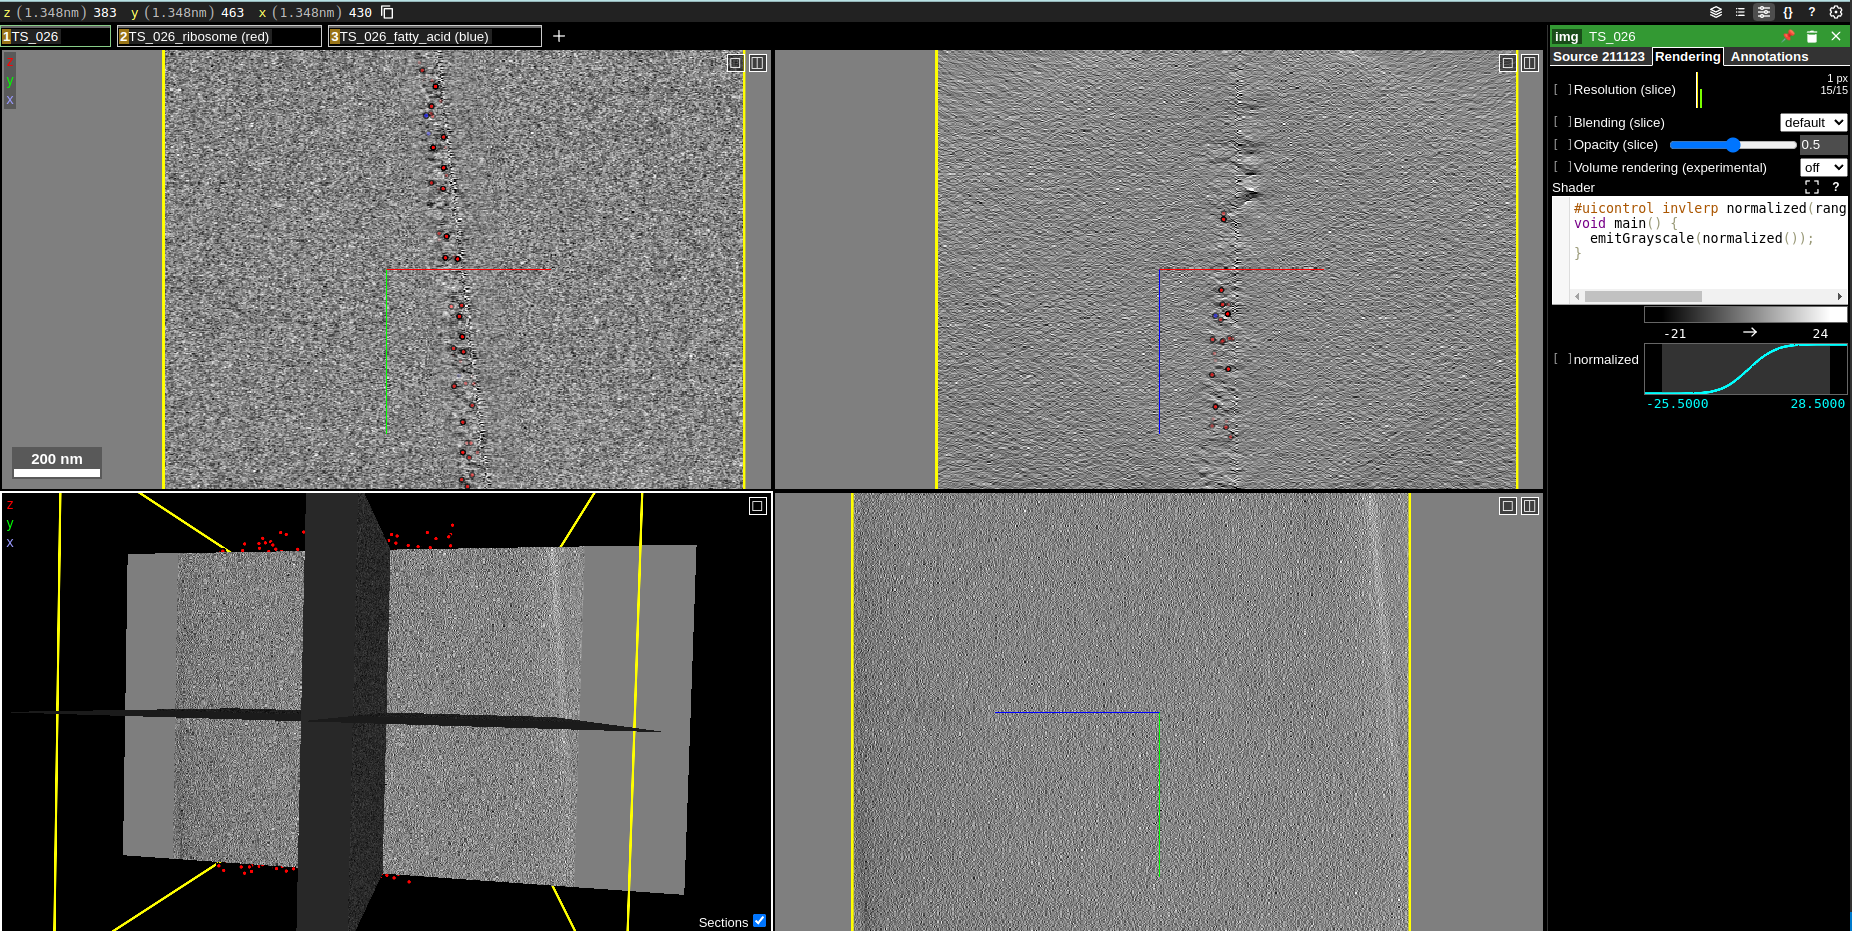
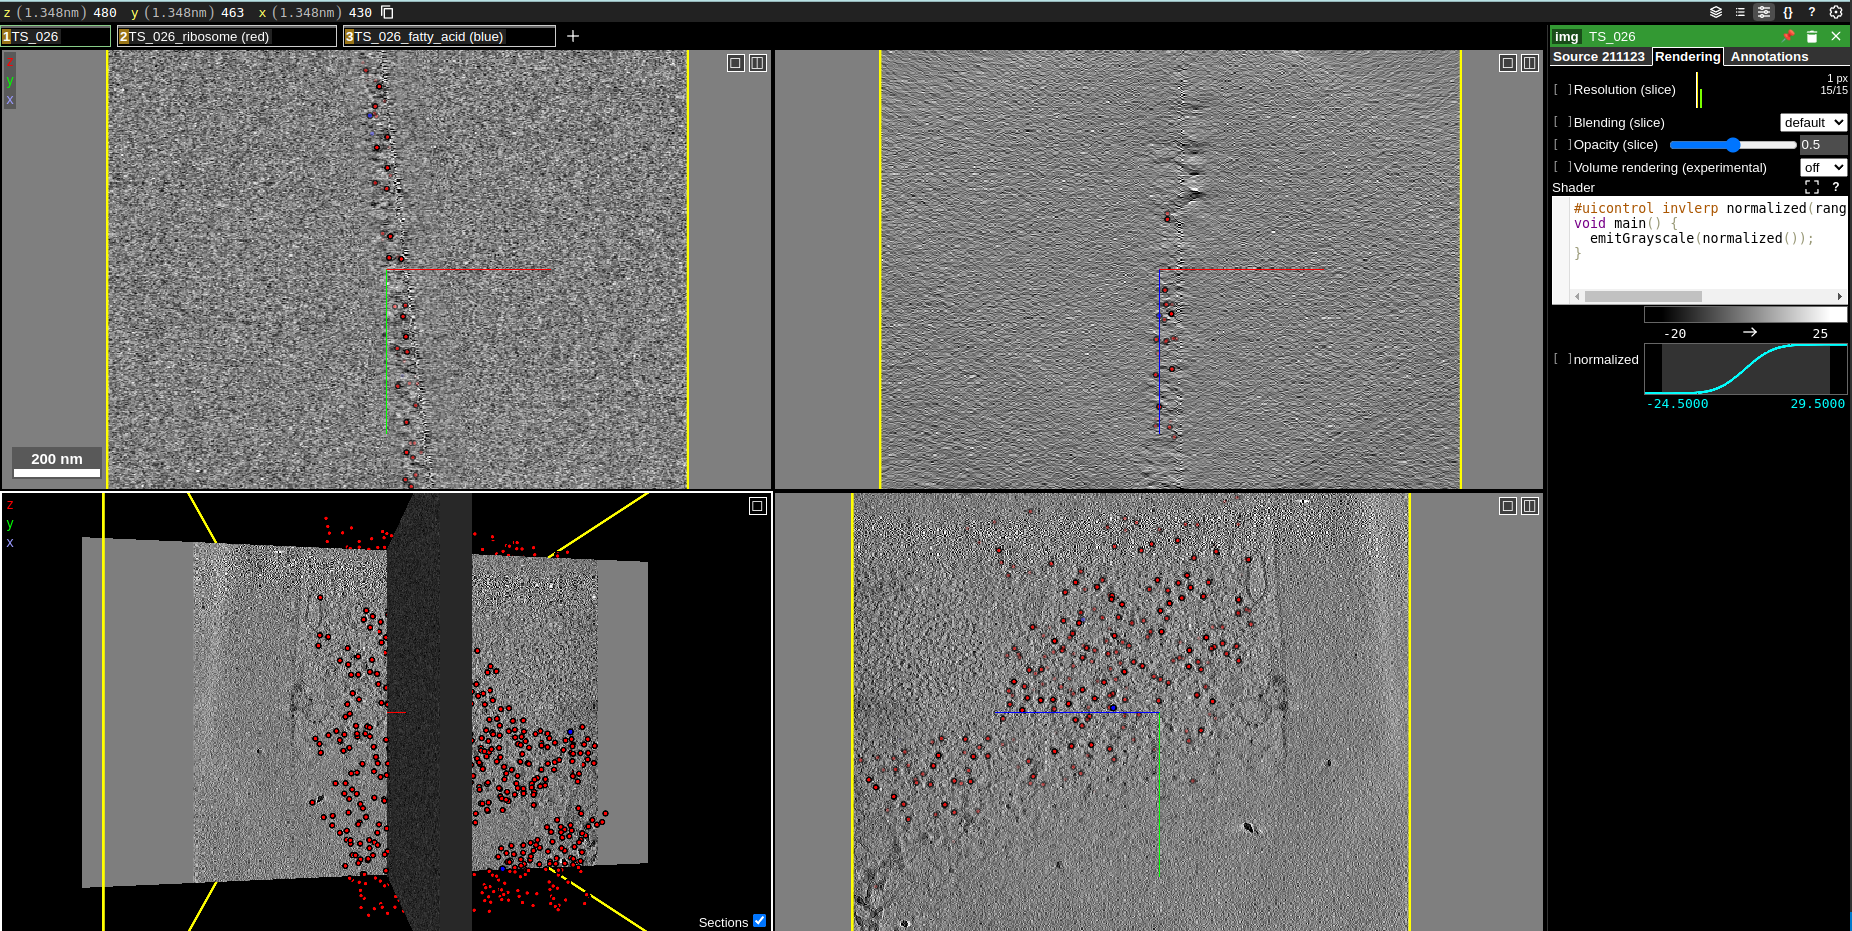
docs: update image

diff --git a/src/cryo_et_neuroglancer/url_creation.py b/src/cryo_et_neuroglancer/url_creation.py
@@ -83,12 +83,12 @@ def combine_json_layers(
             "visible": True,
             "layer": layers[0]["name"],
         },
-        "position": [383.5, 463.0849304199219, 430.5],
+        "position": [480.5, 463.0849304199219, 430.5],
         "crossSectionScale": 1.7221188003905089,
         "projectionOrientation": [
-            0.014965029433369637,
-            -0.6551691889762878,
-            0.0033421318512409925,
+            0.0,
+            0.6551691889762878,
+            0.0,
             -0.7553265690803528,
         ],
     }
